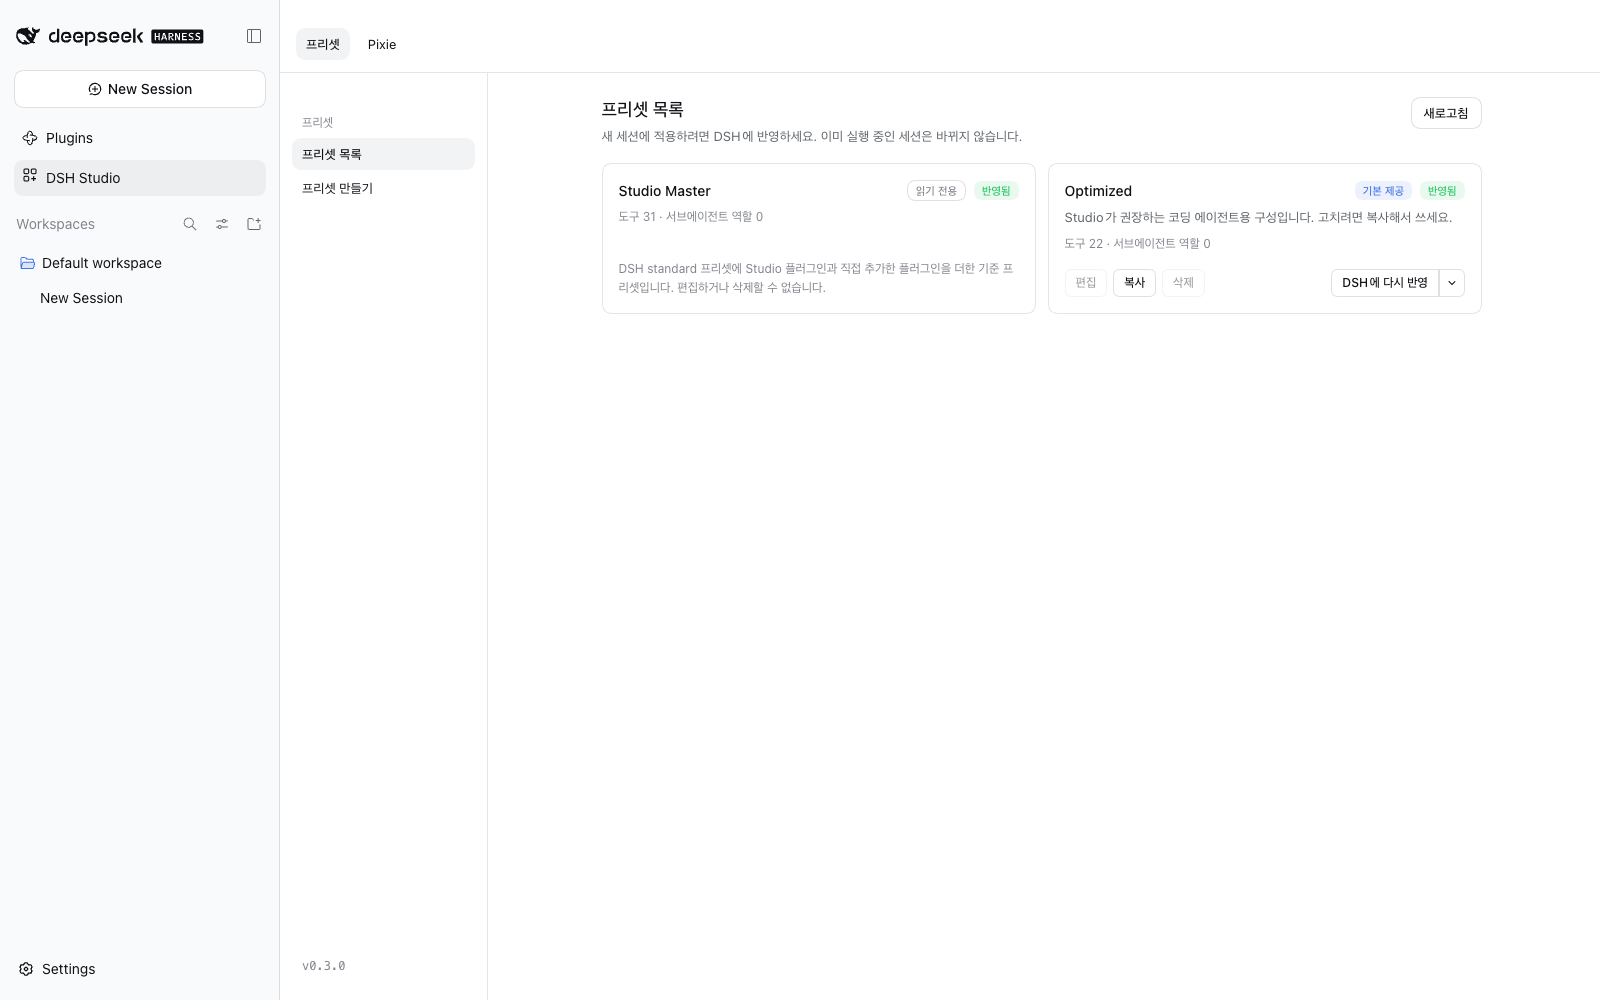
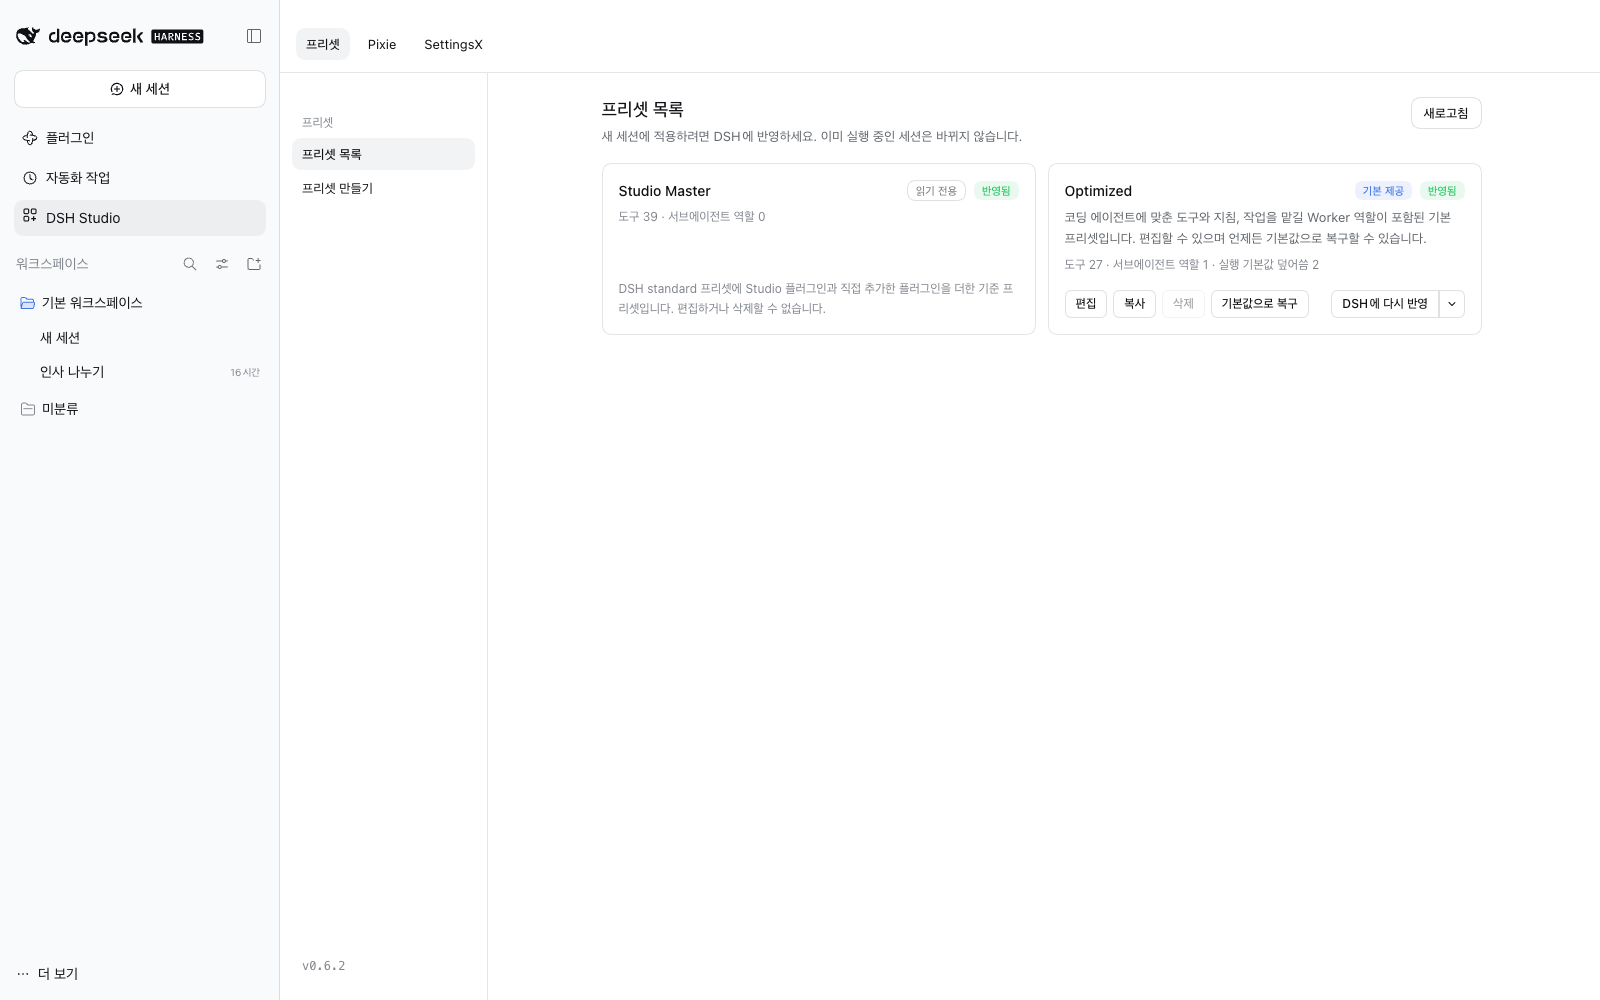
docs(studio): record the 0.6.2 release E2E and refresh preset-list screenshots

diff --git a/studio/docs/verification/release-0.6.2/verifier-report.md b/studio/docs/verification/release-0.6.2/verifier-report.md
@@ -1,0 +1,45 @@
+## Studio 0.6.2 배포 E2E 결과
+
+- 대상 커밋: `08cbc6f319`, 브랜치 `studio/feat/workflow`. 초기/최종 git status --short 출력 없음.
+- 런타임: 수정하지 않은 설치본 `dsh 0.2.1-rc.2`.
[1 lines of base64/hex data omitted]
+- workspace 테스트: `npm --prefix studio test` 종료 코드 0, 769/769, 실패 0. 배포 검증과 별도 근거.
+- 비밀값 복사: 없음. 사용자 프로필 변경 없음. 실제 모델 호출 없음(각본 모델).
+
+| 단계 | 결과 | 판정 | 근거 |
+| --- | --- | --- | --- |
+| 0 시작 확인 | 통과 | L0 | package version/STUDIO_VERSION/CHANGELOG 0.6.2; 런타임 일치; zstd, Playwright, Chrome 155.0.8059.84 사용 가능 |
+| 기본 smoke | 통과 | L0 | [결과](smoke.json) 12/12, pageerror 0, 플러그인 실패 0 |
+| #34 Optimized·Worker | 통과 | L0 | [결과](agent-optimized-worker.json) 16/16 |
+| 역할 자식 회귀 | 통과 | L0 | [결과](agent-roles.json) 5/5 |
+| #33 세션 역할 시작 방식 | 통과 | L0 | [결과](agent-session-role-spawn.json) 9/9 |
+| Web RPC | 통과 | L0 | [로그](web-rpc.log) 네 스크립트 통과; [별도 RPC](fresh-values.json) Optimized 도구 27 |
+| 화면 확인 | 미실행(부분 실행) | L0 | [결과](browser.json) 12 통과/12 실패, 검증자 셀렉터 오류. Worker 설명/복구 버튼/목록 스크린샷 3뷰 확보, pageerror/플러그인 실패 0. 편집·저장·복구·Config·Worker 탭·콘솔 오류 검사는 미완료 |
+| 업그레이드 0.6.1 → 0.6.2 | 통과 | L0 | [전](upgrade-before.json)/[후](upgrade-after.json), 아래 값 확인; [smoke](upgrade-smoke.json) 12/12, pageerror/플러그인 실패 0; [로그 검색](upgrade-log-check.json) 실패 일치 0 |
+| 4 정리 | 통과 | L0 | [신규 서버 종료](down-fresh.json) portFree true; [최종 upgrade 종료](down-upgrade-final.json) portFree true; 최종 기본 down은 이미 종료되어 state 없음 |
+
+### 업그레이드 값
+
+| 항목 | 0.6.1 | 0.6.2 |
+| --- | --- | --- |
+| Optimized 도구 | 22 | 27 |
+| Optimized bash | 600000 | 120000 |
+| Optimized 역할 | 0 | Worker 1 |
+| Optimized 상태 | applied | applied, customized 없음 |
+| __upgrade_copy__ 도구/bash/역할/상태 | 22 / 600000 / 0 / applied | 동일 |
+
+### 발견(결함 후보), 차단 및 미실행
+
+- 제품 결함 확정 없음. 신규 및 이전/후보 업그레이드 설치 모두 peer dependency 경고가 있었으며 설치·기동·검사는 통과했다. 세부 peer 해결/추가 설치는 하지 않았다.
+- 검증 스크립트 결함: [browser-check.mjs](browser-check.mjs)의 `role=button[...][exact=true]`는 Playwright 문자열 셀렉터에 지원되지 않는다. Studio 프리셋 목록에서 해당 명령 실행 시 `Unknown attribute "exact"` 재현. Master 읽기 전용 셀렉터는 10초 timeout. 제품 UI 결함으로 판정하지 않았다.
+- L1 복구에는 pixie_loop 도구/제공자가 필요하지만 이 검증 세션에 해당 도구가 없고 격리 프로필에는 비밀값을 복사하지 않았다. 복구 환경 차단; 상위 에이전트 지시에 따라 셀렉터를 고치지 않고 화면 나머지를 미실행으로 남겼다. L1 실행/job 없음. 상위 에이전트가 별도 화면 확인 예정.
+- 후보 복사 첫 시도는 server 출력 package가 basename인 것을 경로로 사용하여 ENOENT(exit 1). 실제 packs 내 생성 파일을 SHA256 대조하여 식별했고 그대로 업그레이드에 사용했다. 패키지 유실 없음.
+- 최종 화면 사람 확인, 실모델, Desktop, 다른 DSH 버전은 이번 검증 범위에서 미실행.
+
+### 산출물
+
+- [신규 설치 요약](up.json), [이전 버전 설치](up-upgrade-before.json), [후보 업그레이드 설치](up-upgrade-after.json): 인증 URL 제거.
+- [workspace 로그](workspace-test.log), [브라우저 스크립트](browser-check.mjs), [업그레이드 RPC 스크립트](upgrade-check.mjs).
+- 프리셋 목록: [라이트](../shots/0.6.2-browser/presets.light-1440.png), [다크](../shots/0.6.2-browser/presets.dark-1440.png), [480px](../shots/0.6.2-browser/presets.light-480.png).
+- [L1 복구 대기 항목](../shots/0.6.2-browser/repair-items.jsonl).
+- [최종 git status](git-status-final.txt): 빈 출력. tracked 파일 변경, 커밋, 푸시, 퍼블리시, 이슈 변경 없음.

diff --git a/studio/release/CHANGELOG.md b/studio/release/CHANGELOG.md
@@ -26,7 +26,8 @@ Requires DSH `0.2.0-rc.2`, `0.2.1-alpha.2`, `0.2.1-rc.1` or `0.2.1-rc.2`.
 
 ### Verification
 
-- Optimized tuning, the Worker role and Restore defaults: a packaged build was installed into an isolated profile of unmodified DSH `0.2.1-rc.2` and checked with a scripted test model. The main agent received the orchestration tools; the Worker did not, a `judge` call from it was rejected and `read` ran; both received the common instructions and the new `read` guidance; saving an edit marked Optimized as edited and Restore defaults brought the defaults back. Real models were not used for this check.
+- The release package was installed into isolated profiles of unmodified DSH `0.2.1-rc.2`, both fresh and as an upgrade from 0.6.1, and checked with a scripted test model. On upgrade, the built-in Optimized moved to the new defaults while an existing copy kept its tools and 600000 ms `bash` wait. The preset list and Config screens were checked in light, dark and 480 px views.
+- Optimized tuning, the Worker role and Restore defaults: checked in the same installation. The main agent received the orchestration tools; the Worker did not, a `judge` call from it was rejected and `read` ran; both received the common instructions and the new `read` guidance; saving an edit marked Optimized as edited and Restore defaults brought the defaults back. Real models were not used for this check.
 - Execution defaults: a build of this change (packaged before the version number was raised to 0.6.2) was installed into an isolated profile of unmodified DSH `0.2.1-rc.2` and checked with a local test model. With the shell timeout set to 1500 ms, an Optimized copy still waited for `sleep 3`; after its `bash` default was turned off, the command moved to a background job after 1500 ms. The editor was checked in light, dark and 480 px views. Other DSH versions were not tested for this change.
 
 ### 한국어
@@ -53,7 +54,8 @@ DSH `0.2.0-rc.2`, `0.2.1-alpha.2`, `0.2.1-rc.1` 또는 `0.2.1-rc.2`가 필요합
 
 #### 검증
 
-- Optimized 조정, Worker 역할, 기본값으로 복구: 패키징한 빌드를 수정하지 않은 DSH `0.2.1-rc.2`의 격리 프로필에 설치하고 각본 테스트 모델로 확인했습니다. 메인 에이전트는 오케스트레이션 도구를 받았고 Worker는 받지 않았으며, Worker의 `judge` 호출은 거부되고 `read`는 실행되었습니다. 두 에이전트 모두 공통 지침과 새 `read` 지침을 받았습니다. 편집을 저장하면 Optimized가 편집됨으로 표시되었고, 기본값으로 복구하면 기본값으로 돌아왔습니다. 이 확인에는 실제 모델을 쓰지 않았습니다.
+- 배포 패키지를 수정하지 않은 DSH `0.2.1-rc.2`의 격리 프로필에 새로 설치한 경우와 0.6.1에서 업그레이드한 경우 모두 각본 테스트 모델로 확인했습니다. 업그레이드하면 기본 제공 Optimized는 새 기본값으로 바뀌었고, 기존 복사본은 도구와 `bash` 600000ms 대기를 그대로 유지했습니다. 프리셋 목록과 Config 화면은 라이트·다크 모드와 480px 너비에서 확인했습니다.
+- Optimized 조정, Worker 역할, 기본값으로 복구: 같은 설치본에서 확인했습니다. 메인 에이전트는 오케스트레이션 도구를 받았고 Worker는 받지 않았으며, Worker의 `judge` 호출은 거부되고 `read`는 실행되었습니다. 두 에이전트 모두 공통 지침과 새 `read` 지침을 받았습니다. 편집을 저장하면 Optimized가 편집됨으로 표시되었고, 기본값으로 복구하면 기본값으로 돌아왔습니다. 이 확인에는 실제 모델을 쓰지 않았습니다.
 - 실행 기본값: 이번 변경을 담은 빌드(버전 번호를 0.6.2로 올리기 전에 패키징)를 수정하지 않은 DSH `0.2.1-rc.2`의 격리 프로필에 설치하고 로컬 테스트 모델로 확인했습니다. 셸 타임아웃을 1500ms로 둔 상태에서 Optimized 복사본은 `sleep 3`이 끝날 때까지 기다렸고, `bash` 기본값을 끈 뒤에는 1500ms가 지나자 백그라운드 작업으로 넘어갔습니다. 편집 화면은 라이트·다크 모드와 480px 너비에서 확인했습니다. 이번 변경 사항은 다른 DSH 버전에서 확인하지 않았습니다.
 
 ## 0.6.1 — 2026-10-17

diff --git a/studio/docs/verification/release-0.6.2/README.md b/studio/docs/verification/release-0.6.2/README.md
@@ -1,0 +1,48 @@
+# Studio 0.6.2 배포 E2E
+
+검증일: 2026-10-18. 지침서: [releases/0.6.2.md](../../../scripts/agents/releases/0.6.2.md). 검증자 원본 보고: [verifier-report.md](verifier-report.md).
+
+## 대상
+
+- fork 커밋 `08cbc6f319`(`studio/feat/workflow`), 수정하지 않은 DSH `0.2.1-rc.2`(`/usr/local/bin/dsh`).
[1 lines of base64/hex data omitted]
+- 격리 home·프로필(`server.mjs`), 각본 모델(`--mock-llm`). 비밀값 복사·실제 모델 호출 없음.
+
+## 결과
+
+| 단계 | 결과 | 근거 |
+|---|---|---|
+| workspace 테스트 | 통과 | 769/769. 배포 증거가 아니라 회귀 확인 |
+| smoke | 통과 | 12/12, pageerror 0, 플러그인 실패 0 |
+| #34 Optimized·Worker | 통과 | `agent-optimized-worker.mjs` 16/16 |
+| 역할 자식 회귀 | 통과 | `agent-roles.mjs` 5/5 |
+| #33 세션 역할 시작 방식 | 통과 | `agent-session-role-spawn.mjs` 9/9 |
+| Web RPC | 통과 | `check-web-runtime.mjs` 네 스크립트, Optimized 도구 27 |
+| 화면 | 부분 | 검증자 스크립트의 셀렉터 오류로 일부만 실행. 메인 세션이 별도로 확인(아래) |
+| 업그레이드 0.6.1 → 0.6.2 | 통과 | 아래 표, 업그레이드 뒤 smoke 12/12 |
+| 정리 | 통과 | 두 프로필 `portFree: true`, 최종 `git status` 빈 출력 |
+
+업그레이드 전후([전](upgrade-before.json), [후](upgrade-after.json)):
+
+| 항목 | 0.6.1 | 0.6.2 |
+|---|---|---|
+| Optimized 도구 | 22 | 27 |
+| bash 실행 기본값 | 600000 | 120000 |
+| 서브에이전트 역할 | 0 | Worker 1 |
+| 상태 | applied | applied, 편집됨 표시 없음 |
+| 0.6.1에서 만든 Optimized 복사본 | 22 / 600000 / 0 / applied | 그대로 |
+
+## 화면 확인 (메인 세션)
+
+같은 후보 패키지를 새 격리 프로필(`guide`)에 설치해 확인했다. 사람 확인을 대신하지 않는다.
+
+- 프리셋 목록: Optimized 카드에 `편집`·`복사` 활성, `삭제` 비활성, `기본값으로 복구` 있음. 라이트·다크·480px([다크](presets.dark-1440.png), [480px](presets.light-480.png))에서 겹침 없음.
+- 편집 → 서브에이전트: Worker 역할 1개(라이트·다크).
+- 편집 → 실행 설정 → Config: `여러 파일 한 번에 읽기`는 켜진 채 비활성, `한 파일 여러 곳 고치기`는 꺼진 채 비활성, "프리셋을 기본값으로 복구할 때만 바뀝니다" 안내 표시(라이트·다크). pageerror 0.
+- 가이드 `preset-list.png`(ko·en)를 이 프로필에서 다시 찍었다.
+
+## 미검증
+
+- 실제 모델로 Worker에 일을 맡기는 흐름, Desktop 앱, DSH `0.2.1-rc.2` 외 버전.
+- 화면에서 편집 저장 → `직접 편집함` → 복구 확인 창 흐름은 jsdom 테스트와 RPC 시나리오로만 확인했다.
+- 설치 시 peer dependency 경고는 이전 배포와 같이 남아 있다.

diff --git a/studio/docs/issues/34-optimized-worker-tuning.md b/studio/docs/issues/34-optimized-worker-tuning.md
@@ -175,9 +175,9 @@ Optimized는 지금 `agents: []`이다. 기본 Worker 역할을 하나 넣는다
 |---|---|---|---|
 | S1 | 완료 | `4c70d2dbc4`, `ef0c0eef69` | `optimized-preset.test.mjs` 값별 단언. S5 사전 점검에서 `tool:goal` 빈 덮어쓰기 추가 |
 | S3 | 완료 | `1173171038` | 편집 유지·새 기본값·복구·이전 행 갱신 단위 테스트 |
-| S6 | 코드 완료 | `3dd33d19ee` | jsdom 테스트(편집·복구 버튼, Config 잠금). 라이트·다크·좁은 폭 화면 확인은 미실행 |
+| S6 | 완료 | `3dd33d19ee` | jsdom 테스트. 배포 패키지로 라이트·다크·480px 화면 확인([기록](../verification/release-0.6.2/README.md)) |
 | S4 | 완료 | `b7ed27d395` | `optimized-tools.md`, `CHANGELOG`, Master 목록 |
-| S5 | 사전 점검 통과, 검증자 실행 대기 | `ef0c0eef69` | 아래 기록 |
+| S5 | 완료 | `ef0c0eef69` | 0.6.2 배포 E2E에서 검증자가 신규 설치 16/16, 0.6.1 업그레이드 통과([기록](../verification/release-0.6.2/README.md)) |
 
 S5 사전 점검(구현 세션이 직접 실행, 검증자 판정 아님):
 
